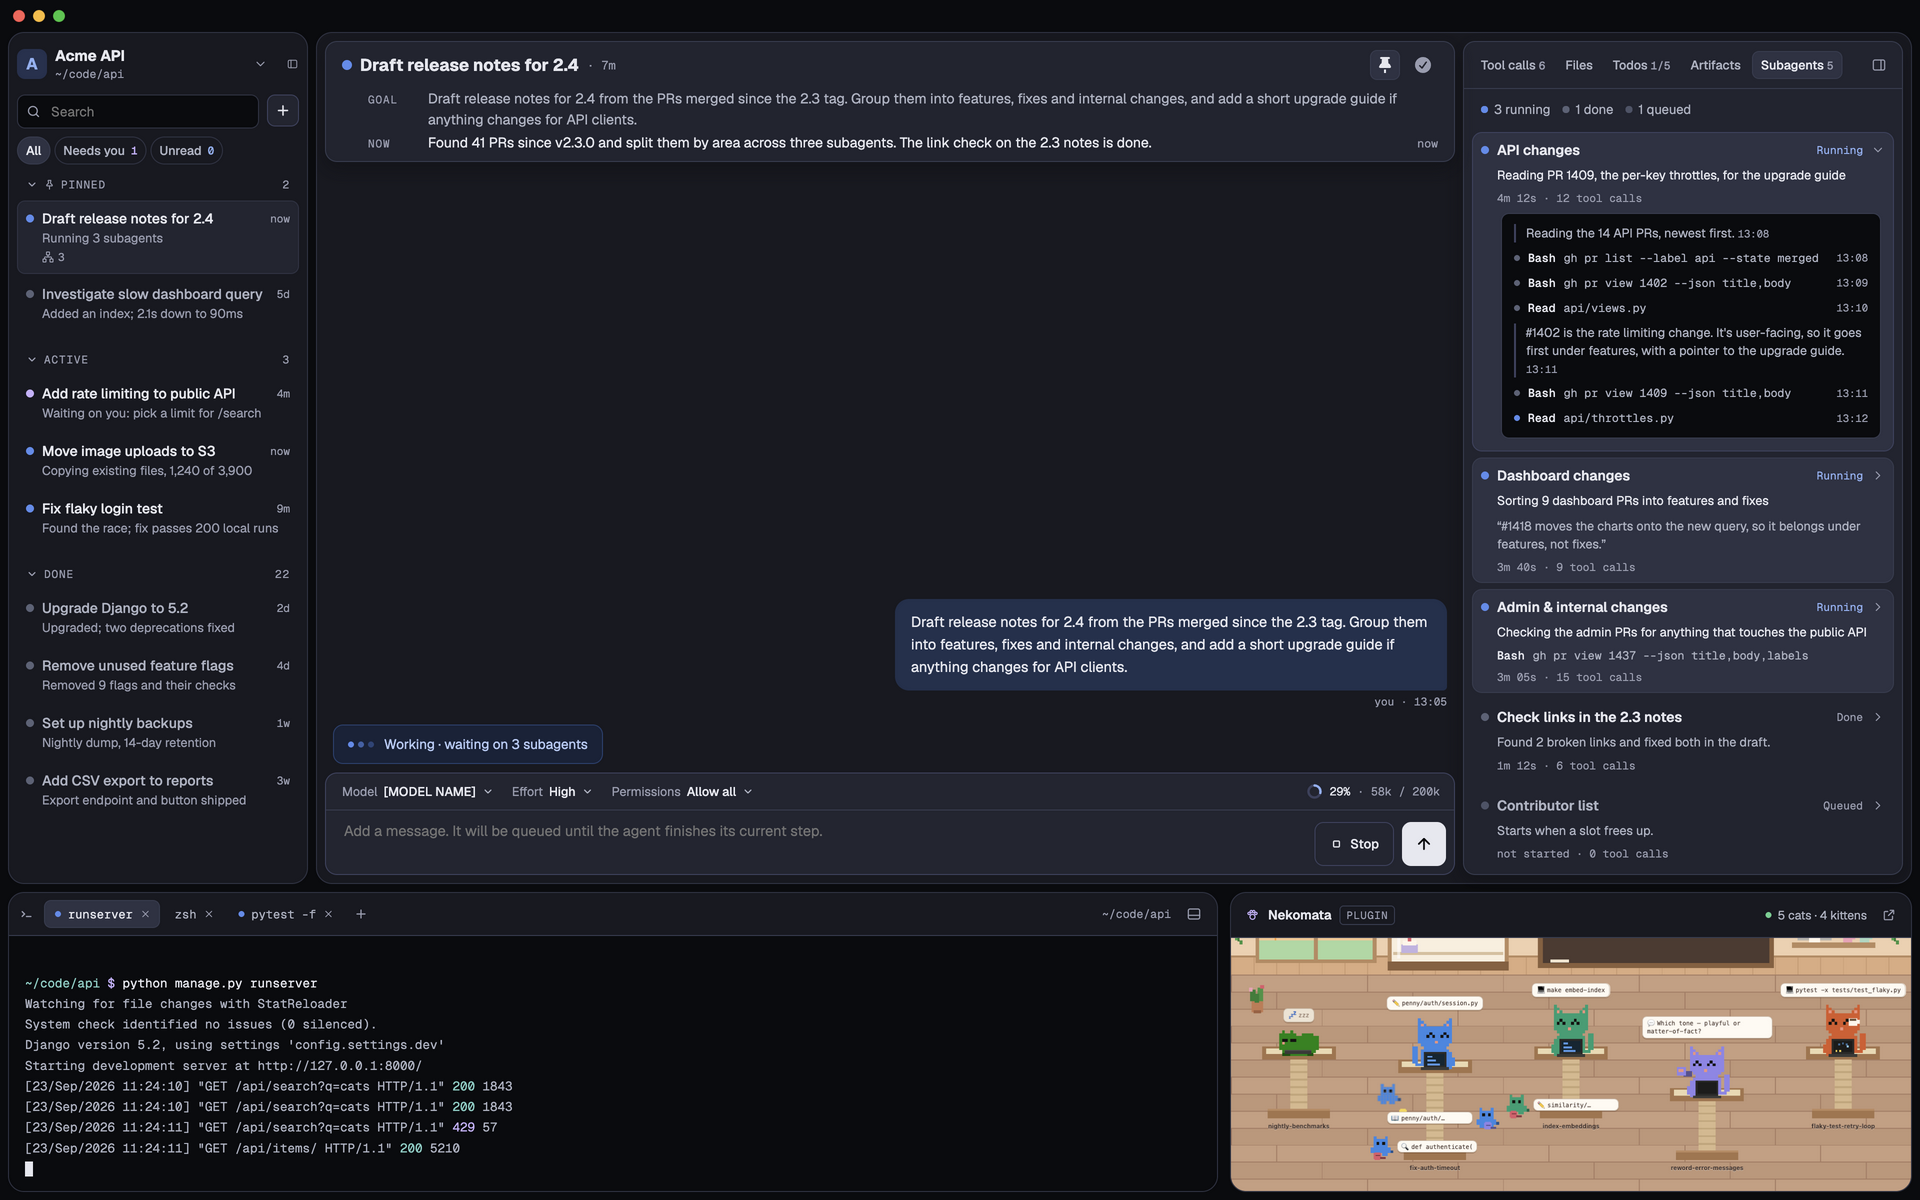
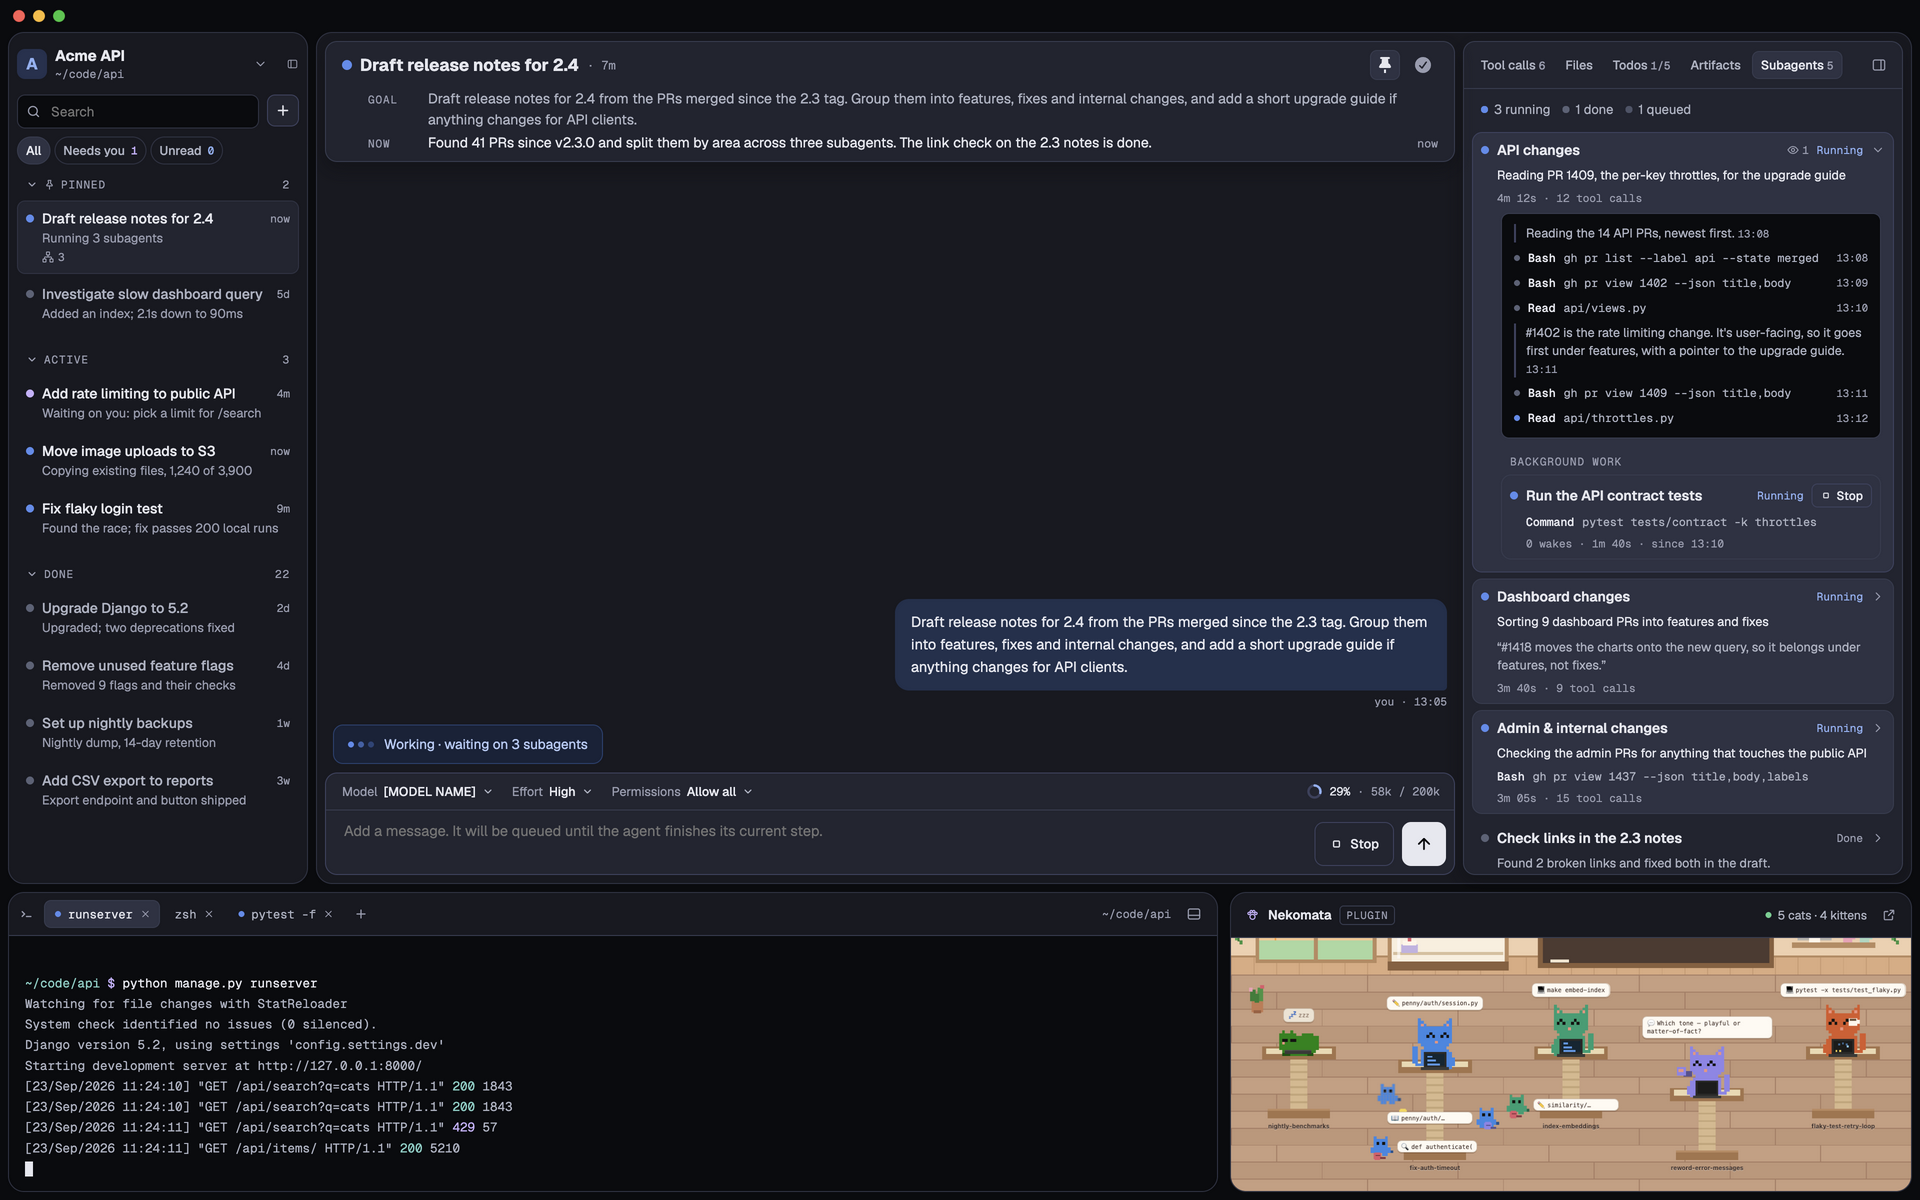
#291: Show a subagent's background work in the Subagents design, and follow main's watcher mark

Changed region(s): [[0.75, 0.4933, 0.9688, 0.74], [0.7812, 0.37, 0.9688, 0.4625], [0.9375, 0.37, 0.9688, 0.4008]]

diff --git a/docs/design/html/11-subagents.html b/docs/design/html/11-subagents.html
@@ -140,12 +140,22 @@ a{color:#8FB2F5}a:hover{color:#B5CBF8}
 <div style="flex-shrink: 0; display: flex; align-items: center; gap: 12px; padding: 0 9px 8px 9px; font-size: 13px; color: #AEB3C3"><span style="display: flex; align-items: center; gap: 6px"><span style="flex-shrink: 0; width: 7px; height: 7px; border-radius: 3px; background: #5B8DEF"></span>3 running</span><span style="display: flex; align-items: center; gap: 6px"><span style="flex-shrink: 0; width: 7px; height: 7px; border-radius: 3px; background: #5C6378"></span>1 done</span><span style="display: flex; align-items: center; gap: 6px"><span style="flex-shrink: 0; width: 7px; height: 7px; border-radius: 3px; background: #4E5468"></span>1 queued</span></div>
 <div style="flex-shrink: 0; background: #2E3243; border: 1px solid #3D425E; border-radius: 10px">
 <button type="button" aria-expanded="true" style="display: flex; flex-direction: column; gap: 7px; width: 100%; box-sizing: border-box; padding: 8px; background: transparent; border: 0; text-align: left; font: inherit; color: inherit; cursor: pointer">
-<span style="display: flex; align-items: center; gap: 8px; width: 100%"><span style="flex-shrink: 0; width: 8px; height: 8px; border-radius: 4px; background: #5B8DEF"></span><span style="flex-grow: 1; min-width: 0; font-size: 14px; font-weight: 600; color: #E6E8F0; white-space: nowrap; overflow: hidden; text-overflow: ellipsis">API changes</span><span style="font-family: 'Geist Mono', ui-monospace, monospace; font-size: 11px; color: #8FB2F5">Running</span><span style="display: flex; color: #999DB0"><svg width="14" height="14" viewBox="0 0 24 24" fill="none" stroke="currentColor" stroke-width="2" stroke-linecap="round" stroke-linejoin="round"><path d="m6 9 6 6 6-6"></path></svg></span></span>
+<span style="display: flex; align-items: center; gap: 8px; width: 100%"><span style="flex-shrink: 0; width: 8px; height: 8px; border-radius: 4px; background: #5B8DEF"></span><span style="flex-grow: 1; min-width: 0; font-size: 14px; font-weight: 600; color: #E6E8F0; white-space: nowrap; overflow: hidden; text-overflow: ellipsis">API changes</span><span role="img" aria-label="1 watcher running" title="1 watcher running" style="flex-shrink: 0; display: flex; align-items: center; gap: 3px; font-family: 'Geist Mono', ui-monospace, monospace; font-size: 11px; color: #999DB0"><svg width="12" height="12" viewBox="0 0 24 24" fill="none" stroke="currentColor" stroke-width="2" stroke-linecap="round" stroke-linejoin="round"><path d="M2 12s3.5-7 10-7 10 7 10 7-3.5 7-10 7S2 12 2 12z"></path><circle cx="12" cy="12" r="3"></circle></svg>1</span><span style="font-family: 'Geist Mono', ui-monospace, monospace; font-size: 11px; color: #8FB2F5">Running</span><span style="display: flex; color: #999DB0"><svg width="14" height="14" viewBox="0 0 24 24" fill="none" stroke="currentColor" stroke-width="2" stroke-linecap="round" stroke-linejoin="round"><path d="m6 9 6 6 6-6"></path></svg></span></span>
 <span title="Reading PR 1409, the per-key throttles, for the upgrade guide" style="display: block; width: 100%; box-sizing: border-box; padding-left: 16px; font-size: 12.5px; line-height: 1.45; color: #E6E8F0; white-space: nowrap; overflow: hidden; text-overflow: ellipsis">Reading PR 1409, the per-key throttles, for the upgrade guide</span>
 <span style="padding-left: 16px; font-family: 'Geist Mono', ui-monospace, monospace; font-size: 11px; color: #999DB0">4m 12s · 12 tool calls</span>
 </button>
 <div style="margin: 0 12px 12px 28px; padding: 8px 10px; background: #0A0B0F; border: 1px solid #373C4F; border-radius: 8px; display: flex; flex-direction: column; gap: 2px">
 <div style="margin: 2px 0 2px 2px; padding-left: 10px; border-left: 2px solid #3D425E; font-size: 12.5px; line-height: 1.45; color: #AEB3C3">Reading the 14 API PRs, newest first. <span style="font-family: 'Geist Mono', ui-monospace, monospace; font-size: 10.5px; color: #999DB0">13:08</span></div><div style="display: flex; align-items: center; gap: 8px; padding: 4px 2px"><span style="flex-shrink: 0; width: 6px; height: 6px; border-radius: 3px; background: #5C6378"></span><span style="font-family: 'Geist Mono', ui-monospace, monospace; font-size: 11.5px; font-weight: 500; color: #E6E8F0">Bash</span><span style="flex-grow: 1; min-width: 0; font-family: 'Geist Mono', ui-monospace, monospace; font-size: 11.5px; color: #AEB3C3; white-space: nowrap; overflow: hidden; text-overflow: ellipsis">gh pr list --label api --state merged</span><span style="font-family: 'Geist Mono', ui-monospace, monospace; font-size: 10.5px; color: #999DB0">13:08</span></div><div style="display: flex; align-items: center; gap: 8px; padding: 4px 2px"><span style="flex-shrink: 0; width: 6px; height: 6px; border-radius: 3px; background: #5C6378"></span><span style="font-family: 'Geist Mono', ui-monospace, monospace; font-size: 11.5px; font-weight: 500; color: #E6E8F0">Bash</span><span style="flex-grow: 1; min-width: 0; font-family: 'Geist Mono', ui-monospace, monospace; font-size: 11.5px; color: #AEB3C3; white-space: nowrap; overflow: hidden; text-overflow: ellipsis">gh pr view 1402 --json title,body</span><span style="font-family: 'Geist Mono', ui-monospace, monospace; font-size: 10.5px; color: #999DB0">13:09</span></div><div style="display: flex; align-items: center; gap: 8px; padding: 4px 2px"><span style="flex-shrink: 0; width: 6px; height: 6px; border-radius: 3px; background: #5C6378"></span><span style="font-family: 'Geist Mono', ui-monospace, monospace; font-size: 11.5px; font-weight: 500; color: #E6E8F0">Read</span><span style="flex-grow: 1; min-width: 0; font-family: 'Geist Mono', ui-monospace, monospace; font-size: 11.5px; color: #AEB3C3; white-space: nowrap; overflow: hidden; text-overflow: ellipsis">api/views.py</span><span style="font-family: 'Geist Mono', ui-monospace, monospace; font-size: 10.5px; color: #999DB0">13:10</span></div><div style="margin: 2px 0 2px 2px; padding-left: 10px; border-left: 2px solid #3D425E; font-size: 12.5px; line-height: 1.45; color: #AEB3C3">#1402 is the rate limiting change. It's user-facing, so it goes first under features, with a pointer to the upgrade guide. <span style="font-family: 'Geist Mono', ui-monospace, monospace; font-size: 10.5px; color: #999DB0">13:11</span></div><div style="display: flex; align-items: center; gap: 8px; padding: 4px 2px"><span style="flex-shrink: 0; width: 6px; height: 6px; border-radius: 3px; background: #5C6378"></span><span style="font-family: 'Geist Mono', ui-monospace, monospace; font-size: 11.5px; font-weight: 500; color: #E6E8F0">Bash</span><span style="flex-grow: 1; min-width: 0; font-family: 'Geist Mono', ui-monospace, monospace; font-size: 11.5px; color: #AEB3C3; white-space: nowrap; overflow: hidden; text-overflow: ellipsis">gh pr view 1409 --json title,body</span><span style="font-family: 'Geist Mono', ui-monospace, monospace; font-size: 10.5px; color: #999DB0">13:11</span></div><div style="display: flex; align-items: center; gap: 8px; padding: 4px 2px"><span style="flex-shrink: 0; width: 6px; height: 6px; border-radius: 3px; background: #5B8DEF"></span><span style="font-family: 'Geist Mono', ui-monospace, monospace; font-size: 11.5px; font-weight: 500; color: #E6E8F0">Read</span><span style="flex-grow: 1; min-width: 0; font-family: 'Geist Mono', ui-monospace, monospace; font-size: 11.5px; color: #AEB3C3; white-space: nowrap; overflow: hidden; text-overflow: ellipsis">api/throttles.py</span><span style="font-family: 'Geist Mono', ui-monospace, monospace; font-size: 10.5px; color: #999DB0">13:12</span></div>
+</div>
+<div role="group" aria-label="API changes background work" style="margin: 0 12px 12px 28px; display: flex; flex-direction: column; gap: 6px">
+<p style="margin: 0; padding: 4px 9px 0; font-family: 'Geist Mono', ui-monospace, monospace; font-size: 11px; font-weight: 400; letter-spacing: 0.08em; text-transform: uppercase; color: #999DB0">Background work</p>
+<div role="group" aria-label="Run the API contract tests" style="flex-shrink: 0; background: #2E3243; border: 1px solid #373C4F; border-radius: 10px">
+<div style="display: flex; flex-direction: column; gap: 7px; padding: 8px">
+<span style="display: flex; align-items: center; gap: 8px; width: 100%"><span style="flex-shrink: 0; width: 8px; height: 8px; border-radius: 4px; background: #5B8DEF"></span><span style="flex-grow: 1; min-width: 0; font-size: 14px; font-weight: 600; color: #E6E8F0; white-space: nowrap; overflow: hidden; text-overflow: ellipsis">Run the API contract tests</span><span style="flex-shrink: 0; font-family: 'Geist Mono', ui-monospace, monospace; font-size: 11px; color: #8FB2F5">Running</span><button type="button" aria-label="Stop" style="flex-shrink: 0; display: flex; align-items: center; gap: 5px; height: 24px; padding: 0 8px; background: transparent; color: #E6E8F0; border: 1px solid #3D425E; border-radius: 6px; font: inherit; font-size: 12px; font-weight: 500; cursor: pointer"><svg width="11" height="11" viewBox="0 0 24 24" fill="none" stroke="currentColor" stroke-width="2.4" stroke-linecap="round" stroke-linejoin="round"><rect x="7" y="7" width="10" height="10" rx="1.5"></rect></svg>Stop</button></span>
+<span style="display: flex; align-items: baseline; gap: 8px; padding-left: 16px; min-width: 0"><span style="flex-shrink: 0; font-family: 'Geist Mono', ui-monospace, monospace; font-size: 11.5px; font-weight: 500; color: #E6E8F0">Command</span><span style="min-width: 0; font-family: 'Geist Mono', ui-monospace, monospace; font-size: 11.5px; color: #AEB3C3; white-space: nowrap; overflow: hidden; text-overflow: ellipsis">pytest tests/contract -k throttles</span></span>
+<span style="padding-left: 16px; font-family: 'Geist Mono', ui-monospace, monospace; font-size: 11px; color: #999DB0">0 wakes · 1m 40s · since 13:10</span>
+</div>
+</div>
 </div>
 </div>
 <div style="flex-shrink: 0; background: #2E3243; border: 1px solid #373C4F; border-radius: 10px">

diff --git a/e2e/subagent-watchers.spec.ts b/e2e/subagent-watchers.spec.ts
@@ -36,7 +36,7 @@ test('subagent watchers: a subagent’s background work is under it, not counted
   const subagents = subagentsTab(window)
   await panel.tab(/^Subagents/).click()
   await expect(subagents.log(WORK.subagent)).toHaveCount(0)
-  await expect(subagents.watching(WORK.subagent)).toHaveAccessibleName('Watching 1 thing')
+  await expect(subagents.watching(WORK.subagent)).toHaveAccessibleName('1 watcher running')
   await subagents.header(WORK.subagent).click()
   await expect(subagents.log(WORK.subagent)).toContainText(WORK.waiting)
   const work = subagents.background(WORK.subagent)
@@ -54,7 +54,7 @@ test('subagent watchers: a subagent’s background work is under it, not counted
 
   // The task's own Watchers tab, and its row in the task list, count only its own: the deploy log.
   await expect(panel.tab(/^Watch/)).toHaveText('Watchers 1')
-  await expect(watchingMark(list.taskRow(WORK.title))).toHaveAccessibleName('Watching 1 thing')
+  await expect(watchingMark(list.taskRow(WORK.title))).toHaveAccessibleName('1 watcher running')
   await panel.tab(/^Watch/).click()
   const watchers = watchersTab(window)
   await expect(watchers.rows).toHaveCount(1)

diff --git a/e2e/selectors.ts b/e2e/selectors.ts
@@ -207,8 +207,8 @@ export function subagentsTab(page: Page) {
     summary: (name: string, text: string) => row(name).getByTitle(text, { exact: true }),
     /** A row's log, while it's open. */
     log: (name: string) => panel.getByRole('log', { name: `${name} log` }),
-    /** A row's eye and count of its live background work, named "Watching 2 things". */
-    watching: (name: string) => row(name).getByRole('img', { name: /^Watching/ }),
+    /** A row's eye and count of its live background work, named "2 watchers running". */
+    watching: (name: string) => row(name).getByRole('img', { name: /watchers? running$/ }),
     /** What a subagent left running or scheduled, under its log while it's open: a watcher row each. */
     background: (name: string) => panel.getByRole('group', { name: `${name} background work` }),
   }

diff --git a/src/renderer/subagents/SubagentsTab.test.tsx b/src/renderer/subagents/SubagentsTab.test.tsx
@@ -397,7 +397,7 @@ describe('a subagent’s background work (#291)', () => {
       storeWrapper({ watchers: [...WATCHERS], stoppedWatchers }),
     )
 
-    expect(within(row('API changes')).getByRole('img', { name: 'Watching 1 thing' })).toHaveTextContent('1')
+    expect(within(row('API changes')).getByRole('img', { name: '1 watcher running' })).toHaveTextContent('1')
     // Ended work isn't live: no mark.
     expect(within(row('Dashboard changes')).queryByRole('img')).toBeNull()
     expect(screen.queryByRole('group', { name: 'API changes background work' })).toBeNull()

diff --git a/docs/design/README.md b/docs/design/README.md
@@ -18,7 +18,7 @@ Screens are 1920×1200 at 1× (the lifecycle board and the menu bar are 1440×90
 | 8 · Open a file | Files tab with open-file tabs, source/preview toggle; the drag handles that resize the sidebar, right panel and bottom bar. | ![8 · Open a file](screens/08-open-file.png) |
 | 9 · Todos | The agent's checklist with progress, grouped: active, then done (newest first, each with when it finished), then not started (#282); and each task's progress on its sidebar row's third line (a ring and `3/7`; a check once all are done), which shows only while a task has something on it. | ![9 · Todos](screens/09-todos.png) |
 | 10 · Artifacts | Deliverables with Open / Copy / Reveal. | ![10 · Artifacts](screens/10-artifacts.png) |
-| 11 · Subagents | Status and latest line per subagent, and under a running one's name the SDK's one-line summary of what it's doing now (#278); one expanded inline to its log. The running ones' count on the task's sidebar row, on its third line. | ![11 · Subagents](screens/11-subagents.png) |
+| 11 · Subagents | Status and latest line per subagent, and under a running one's name the SDK's one-line summary of what it's doing now (#278); one expanded inline to its log, with the background work it left running under it and an eye and count on its row (#291). The running ones' count on the task's sidebar row, on its third line. | ![11 · Subagents](screens/11-subagents.png) |
 | 12 · Right-click a task | Task context menu in place. ("Reveal folder in Finder" was removed; see `../context-menus.md`.) | ![12 · Right-click a task](screens/12-right-click-task.png) |
 | 13 · Context menus | Every context menu. `../context-menus.md` is authoritative ("Reveal folder in Finder" was removed). | ![13 · Context menus](screens/13-context-menus.png) |
 | 14 · Workspace switcher | Sidebar dropdown with per-workspace counts. | ![14 · Workspace switcher](screens/14-workspace-switcher.png) |
@@ -38,7 +38,7 @@ Screens are 1920×1200 at 1× (the lifecycle board and the menu bar are 1440×90
 | 25 · Backfilled | A done task backfilled through the control API (P13-04): the Backfilled card at the top of the chat, expanded to its handoff note (rendered Markdown), with the date it was added; the files the backfill registered in the Artifacts tab. Built from the chat's cards; no original design. | ![25 · Backfilled](screens/25-backfilled.png) |
 | 26 · Backfilled, collapsed | The same task reopened by a message: the card collapsed to its one line above the conversation. | ![26 · Backfilled, collapsed](screens/26-backfilled-collapsed.png) |
 | 27 · Tab overflow | The right panel at its narrowest, too narrow for its tabs: the row scrolls sideways (wheel, trackpad or chevron) with no scroll bar. Here it's scrolled to the end to show the selected Subagents, with a chevron over a fade at the left end; the same shows at the right end while tabs are past it. Built from 11 · Subagents; no original design. | ![27 · Tab overflow](screens/27-tab-overflow.png) |
-| 28 · Watchers | The Watchers tab: what the agent left running or scheduled (Monitor watches, background commands, wakeups, cron jobs), each with its state, what it runs, its last output, how many times it woke the agent and when, and Stop while it is live; the count of live ones on the tab. The eye and count on a sidebar row's third line, after any todo progress and running subagents: a task with live watchers, done or not. Built from the Subagents tab; no original design. | ![28 · Watchers](screens/28-watchers.png) |
+| 28 · Watchers | The Watchers tab: what the agent left running or scheduled (Monitor watches, background commands, wakeups, cron jobs), each with its state, what it runs, its last output, how many times it woke the agent and when, and Stop while it is live; the count of live ones on the tab. Only the task's own: a subagent's are under it in the Subagents tab (#291). The eye and count on a sidebar row's third line, after any todo progress and running subagents: a task with live watchers, done or not. Built from the Subagents tab; no original design. | ![28 · Watchers](screens/28-watchers.png) |
 | 24 · Changes | The Changes tab: the commits the task made, newest first (short hash, message, `+N −M`, branch, when, `merge`, and the subagent that made one as a tag), with two opened to their files (status letter, path, a rename's from and to, `+N −M` or `binary`); the count of commits on the tab. View only: no git actions. Built from the Subagents and Watchers tabs; no original design. (Numbered as #275 asked; 24 · Permissions picker has the number too.) | ![24 · Changes](screens/24-changes.png) |
 | 24 · Changes, none yet | The Changes tab of a task that has made no commits yet. A workspace that isn't a git repository says "This workspace isn’t a git repository." in its place. | ![24 · Changes, none yet](screens/24-changes-empty.png) |
 | 29 · Menu bar | Glade's icon in the macOS menu bar (1440×900): a monochrome template glyph on dark and light bars, idle, pulsing while an agent works (its frames), with the count of tasks that need you, and highlighted while open; its popover under it, with Needs you (task, workspace and why), Working (status line, todo progress and bar, elapsed) and Recent (the last notifications, with their age), and Open Glade and Quit; and the popover with nothing in flight. | ![29 · Menu bar](screens/29-menu-bar.png) |
